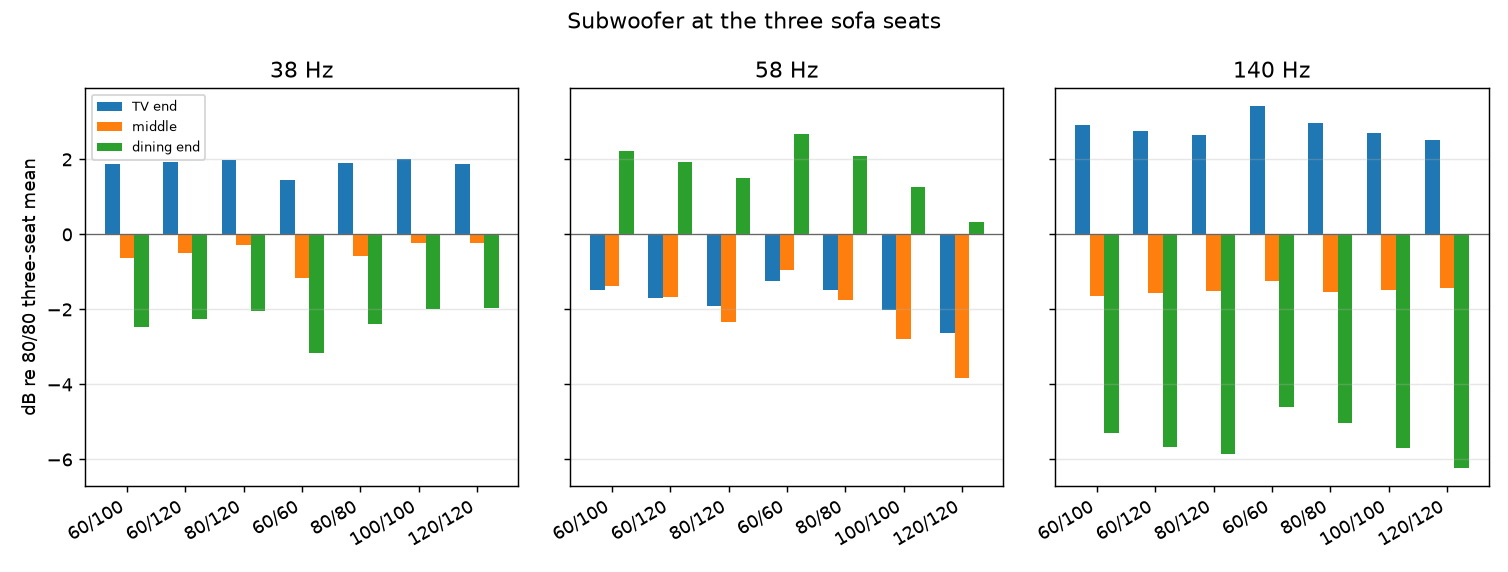
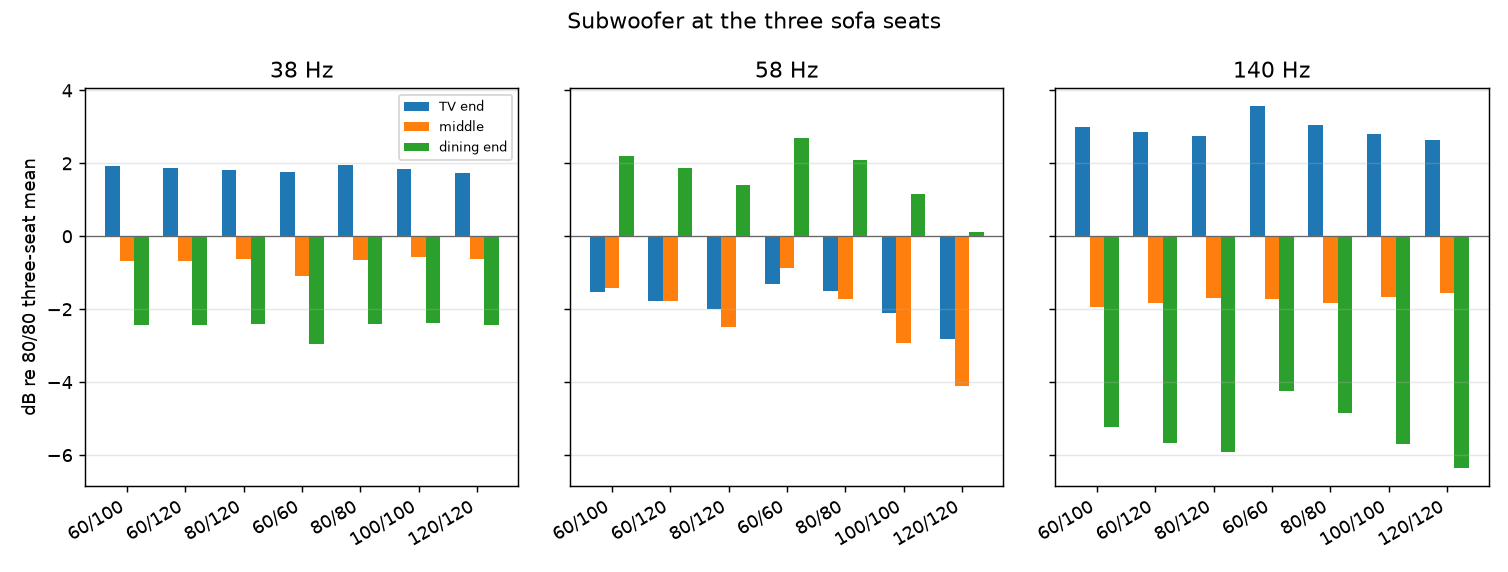
Room-wave study: GKB soffit underside, re-run asymmetric slopes on main build-up

diff --git a/src/blueprints/acoustics/roomwave/asymmetric.py b/src/blueprints/acoustics/roomwave/asymmetric.py
@@ -252,6 +252,14 @@ def main() -> None:
     lines = [
         "# Asymmetric slopes",
         "",
+        "> **Status (Oct 30, 2026):** re-run on the current `main` build-up. 60/100 is the "
+        "chosen pair: NaturHeld 60 mm on the window slope, 100 mm on the cabinet slope, "
+        "2× GKF on the cabinet (road) slope. The second GKF layer is behind the rigid-backed "
+        "slope stack, so this model does not hear it. The soffit is split by area as in the "
+        "main RT60 model: the side face is StoSilent on NaturHeld 140 40 mm over the soffit "
+        "wool, and the underside is plain GKB 12.5 over the same wool and duct air. The other "
+        "pairs are kept for comparison.",
+        "",
         "Left is the window slope, from the eave up to the false ridge. "
         "Right is the cabinet slope, from the ridge down to the soffit. "
         "The subwoofer sits against that cabinet wall, at the TV gable. "
@@ -264,19 +272,20 @@ def main() -> None:
         "Nothing is added behind the thinner board.",
         "",
         "Mineral wool behind the slope gypsum is not in the model. "
-        "On the window slope that wool is 160 + 140 mm; on the cabinet slope it is 160 mm "
-        "plus whatever is left. It sits behind the GKF, so the room does not hear it, "
+        "On the window slope that wool is 160 + 80 mm Unifit 033; on the cabinet slope it is "
+        "160 + 320 mm NatuRoll 039. It sits behind the GKF, so the room does not hear it, "
         "and the ceiling stays symmetric. `plenum_wool` is a CAD volume for the material "
         "list only. No impedance function reads it. The older note about an 80 mm gap "
         "under the rafters is the same invisible layer, also excluded.",
         "",
         "Wool that is counted, on purpose, is not behind rigid gypsum. "
-        "The soffit wool is behind the 40 mm NaturHeld face. "
+        "The soffit wool is behind the 40 mm NaturHeld side face and the GKB underside "
+        "(admittance mixed by area on the wave mesh, α mixed by area in Eyring). "
         "The trap wool is behind the GKB membrane, which is the bass-trap leaf, not a rigid wall. "
-        "Both stay at the drawing thicknesses from the previous run.",
+        "Both stay at the drawing thicknesses.",
         "",
         f"Window slope {furn.area_of('slope_left'):.1f} m², cabinet slope {furn.area_of('slope_right'):.1f} m², "
-        "between the traps. Sofa, soffit wool and both traps stay as in the last run.",
+        "between the traps. Domestic sofa, soffit wool and both traps as in the model.",
         "",
         "## Furnished T60",
         "",
@@ -350,12 +359,11 @@ def main() -> None:
         mid = float(np.mean([curve[500.0], curve[1000.0]]))
         if pair.name == "80/80":
             text = (
-                f"80/80 is the drawing. Furnished bass {bass:.2f} s, mids {mid:.2f} s. "
-                "Same dry mids as the last run, bass still about three times longer."
+                f"80/80 is the reference for the seat levels. Furnished bass {bass:.2f} s, mids {mid:.2f} s."
             )
         elif pair.name == "100/100":
             text = (
-                f"100/100 is the previous recommendation. Furnished bass {bass:.2f} s "
+                f"100/100 is the earlier recommendation. Furnished bass {bass:.2f} s "
                 f"({bass - base_bass:+.2f} s against 80/80), mids {mid:.2f} s. "
                 "The mids do not move."
             )

diff --git a/src/blueprints/acoustics/roomwave/boundaries.py b/src/blueprints/acoustics/roomwave/boundaries.py
@@ -22,6 +22,7 @@ from blueprints.acoustics.obyvak import (
     Resistivity,
     room_geometry,
     soffit_stack,
+    soffit_under_stack,
     slope_stack,
     trap_stack,
 )
@@ -231,7 +232,7 @@ def _stack_z(kind: str, freq: float, thickness_mm: float, fill: Fill) -> complex
         geom = room_geometry()
         cavity = geom.soffit_wool_depth + geom.soffit_air_depth
         wool = min(max(fill.soffit_wool_m, 0.0), cavity)
-        stack = soffit_stack(
+        side = soffit_stack(
             geom.soffit_board,
             plaster,
             wool,
@@ -239,6 +240,12 @@ def _stack_z(kind: str, freq: float, thickness_mm: float, fill: Fill) -> complex
             res,
             wool_sigma=fill.soffit_sigma,
         )
+        under = soffit_under_stack(wool, cavity - wool, res, wool_sigma=fill.soffit_sigma)
+        # One "soffit" label on the mesh: mix the normalised admittance by area
+        # (side NH face vs GKB underside), the same split as the main RT60 model.
+        k = geom.soffit_under_fraction
+        beta = (1.0 - k) * Z0 / surface_impedance(side, freq) + k * Z0 / surface_impedance(under, freq)
+        return Z0 / beta
     elif kind == "rug":
         stack = (("porous", RUG_DEPTH, RUG_SIGMA),)
     else:

diff --git a/src/blueprints/acoustics/roomwave/study.py b/src/blueprints/acoustics/roomwave/study.py
@@ -22,6 +22,7 @@ from blueprints.acoustics.obyvak import (
     eyring_t,
     room_geometry,
     soffit_stack,
+    soffit_under_stack,
     slope_stack,
 )
 from blueprints.acoustics.roomwave.boundaries import (
@@ -211,10 +212,10 @@ def _legacy_t60(thickness_mm: int, soffit: str, freq: float, trap_alpha: dict[st
     plaster = 0.004
     slope = field_absorption(slope_stack(thickness_mm / 1000.0, plaster, res), freq)
     if soffit == "as_built":
-        soffit_a = field_absorption(
-            soffit_stack(geom.soffit_board, plaster, geom.soffit_wool_depth, geom.soffit_air_depth, res),
-            freq,
-        )
+        k = geom.soffit_under_fraction
+        side = soffit_stack(geom.soffit_board, plaster, geom.soffit_wool_depth, geom.soffit_air_depth, res)
+        under = soffit_under_stack(geom.soffit_wool_depth, geom.soffit_air_depth, res)
+        soffit_a = (1.0 - k) * field_absorption(side, freq) + k * field_absorption(under, freq)
         soffit_area = geom.soffit
     else:
         soffit_a = 0.0

diff --git a/src/blueprints/acoustics/roomwave/tune.py b/src/blueprints/acoustics/roomwave/tune.py
@@ -24,6 +24,7 @@ from blueprints.acoustics.obyvak import (
     eyring_t,
     room_geometry,
     soffit_stack,
+    soffit_under_stack,
     slope_stack,
 )
 from blueprints.acoustics.panel import weighted_band_alpha
@@ -135,7 +136,10 @@ def _field_alpha(kind: str, freq: float, slope_mm: int, wool_m: float, air_m: fl
         stack = slope_stack(slope_mm / 1000.0, plaster, res)
     elif kind == "soffit":
         geom = room_geometry()
-        stack = soffit_stack(geom.soffit_board, plaster, wool_m, air_m, res, wool_sigma=sigma)
+        side = soffit_stack(geom.soffit_board, plaster, wool_m, air_m, res, wool_sigma=sigma)
+        under = soffit_under_stack(wool_m, air_m, res, wool_sigma=sigma)
+        k = geom.soffit_under_fraction
+        return (1.0 - k) * field_absorption(side, freq) + k * field_absorption(under, freq)
     elif kind == "rug":
         stack = (("porous", 0.012, 20_000.0),)
     elif kind == "trap":

diff --git a/src/blueprints/acoustics/obyvak.py b/src/blueprints/acoustics/obyvak.py
@@ -283,12 +283,16 @@ def soffit_stack(
 
 
 def soffit_under_stack(
-    wool_m: float, air_m: float, res: Resistivity, gkb_m: float = 0.0125
+    wool_m: float,
+    air_m: float,
+    res: Resistivity,
+    gkb_m: float = 0.0125,
+    wool_sigma: float | None = None,
 ) -> tuple[Layer, ...]:
     """Plain GKB underside, then the soffit wool, then the duct air, then the lid."""
     layers: list[Layer] = [("mass", GKB_DENSITY * gkb_m, 0.0)]
     if wool_m > 1e-6:
-        layers.append(("porous", wool_m, res.mineral_wool))
+        layers.append(("porous", wool_m, wool_sigma if wool_sigma is not None else res.mineral_wool))
     if air_m > 1e-6:
         layers.append(("air", air_m, 0.0))
     return tuple(layers)

diff --git a/docs/acoustics/obyvak-asymmetric.md b/docs/acoustics/obyvak-asymmetric.md
@@ -1,78 +1,78 @@
 # Asymmetric slopes
 
-> **Status (Oct 30, 2026):** archived study from draft PR #69. The 60/100 column is the chosen build-up and is now on `main` (#68, #70): NaturHeld 60 mm on the window slope, 100 mm on the cabinet slope, 2× GKF on the cabinet (road) slope. Since then the soffit underside is plain GKB 12.5 and only the side face is NaturHeld 40 mm. The wave tables below were not re-run for that soffit change or the second GKF layer, which sits behind the rigid-backed slope stack and is not heard in this model. The behind-gypsum wool is now 160 + 80 mm Unifit 033 (left) and 160 + 320 mm NatuRoll 039 (right). The room does not hear it here either.
+> **Status (Oct 30, 2026):** re-run on the current `main` build-up. 60/100 is the chosen pair: NaturHeld 60 mm on the window slope, 100 mm on the cabinet slope, 2× GKF on the cabinet (road) slope. The second GKF layer is behind the rigid-backed slope stack, so this model does not hear it. The soffit is split by area as in the main RT60 model: the side face is StoSilent on NaturHeld 140 40 mm over the soffit wool, and the underside is plain GKB 12.5 over the same wool and duct air. The other pairs are kept for comparison.
 
 Left is the window slope, from the eave up to the false ridge. Right is the cabinet slope, from the ridge down to the soffit. The subwoofer sits against that cabinet wall, at the TV gable. In the cross-section the window slope is on the left and the cabinet slope on the right.
 
 Every slope face is StoSilent on NaturHeld, rigid-backed. `pack()` is `slope_stack`: no mineral wool in the room-facing layers. 60/60, 80/80, 100/100 and 120/120 use that same stack on both sides. The asymmetric runs differ only in the NaturHeld thickness. Nothing is added behind the thinner board.
 
-Mineral wool behind the slope gypsum is not in the model. At the time of this run that wool was 160 + 140 mm (window) and 160 mm plus the rest (cabinet); see the status note for the confirmed build-up. It sits behind the GKF, so the room does not hear it, and the ceiling stays symmetric. `plenum_wool` is a CAD volume for the material list only. No impedance function reads it. The older note about an 80 mm gap under the rafters is the same invisible layer, also excluded.
+Mineral wool behind the slope gypsum is not in the model. On the window slope that wool is 160 + 80 mm Unifit 033; on the cabinet slope it is 160 + 320 mm NatuRoll 039. It sits behind the GKF, so the room does not hear it, and the ceiling stays symmetric. `plenum_wool` is a CAD volume for the material list only. No impedance function reads it. The older note about an 80 mm gap under the rafters is the same invisible layer, also excluded.
 
-Wool that is counted, on purpose, is not behind rigid gypsum. In this run the soffit wool was behind a 40 mm NaturHeld face on the side and underside (the underside is now GKB). The trap wool is behind the GKB membrane, which is the bass-trap leaf, not a rigid wall. Both stay at the drawing thicknesses from the previous run.
+Wool that is counted, on purpose, is not behind rigid gypsum. The soffit wool is behind the 40 mm NaturHeld side face and the GKB underside (admittance mixed by area on the wave mesh, α mixed by area in Eyring). The trap wool is behind the GKB membrane, which is the bass-trap leaf, not a rigid wall. Both stay at the drawing thicknesses.
 
-Window slope 33.5 m², cabinet slope 33.5 m², between the traps. Sofa, soffit wool and both traps stay as in the last run.
+Window slope 33.5 m², cabinet slope 33.5 m², between the traps. Domestic sofa, soffit wool and both traps as in the model.
 
 ## Furnished T60
 
 | Hz | 60/100 | 60/120 | 80/120 | 60/60 | 80/80 | 100/100 | 120/120 |
 | --- | ---: | ---: | ---: | ---: | ---: | ---: | ---: |
-| 50 | 1.24 | 1.15 | 1.08 | 1.44 | 1.25 | 1.08 | 0.95 |
-| 63 | 0.99 | 0.92 | 0.86 | 1.17 | 1.00 | 0.86 | 0.75 |
-| 80 | 0.86 | 0.80 | 0.74 | 1.03 | 0.86 | 0.73 | 0.65 |
-| 100 | 0.77 | 0.72 | 0.66 | 0.94 | 0.77 | 0.65 | 0.58 |
-| 125 | 0.65 | 0.61 | 0.56 | 0.78 | 0.64 | 0.55 | 0.50 |
-| 160 | 0.55 | 0.52 | 0.48 | 0.64 | 0.53 | 0.47 | 0.44 |
-| 200 | 0.47 | 0.45 | 0.42 | 0.54 | 0.45 | 0.41 | 0.39 |
-| 250 | 0.41 | 0.40 | 0.38 | 0.46 | 0.40 | 0.37 | 0.36 |
-| 315 | 0.37 | 0.36 | 0.34 | 0.39 | 0.35 | 0.34 | 0.34 |
-| 400 | 0.33 | 0.34 | 0.32 | 0.35 | 0.33 | 0.32 | 0.32 |
-| 500 | 0.31 | 0.32 | 0.31 | 0.32 | 0.31 | 0.31 | 0.31 |
-| 630 | 0.30 | 0.30 | 0.30 | 0.30 | 0.29 | 0.30 | 0.30 |
-| 800 | 0.29 | 0.29 | 0.29 | 0.29 | 0.29 | 0.29 | 0.29 |
-| 1000 | 0.28 | 0.28 | 0.28 | 0.28 | 0.28 | 0.29 | 0.29 |
-| 1250 | 0.28 | 0.28 | 0.28 | 0.28 | 0.28 | 0.28 | 0.28 |
-| 1600 | 0.27 | 0.27 | 0.28 | 0.27 | 0.28 | 0.28 | 0.27 |
-| 2000 | 0.27 | 0.27 | 0.27 | 0.27 | 0.27 | 0.27 | 0.27 |
-| 2500 | 0.27 | 0.27 | 0.27 | 0.27 | 0.27 | 0.27 | 0.27 |
-| 3150 | 0.26 | 0.26 | 0.26 | 0.26 | 0.26 | 0.26 | 0.26 |
-| 4000 | 0.26 | 0.26 | 0.26 | 0.26 | 0.26 | 0.26 | 0.26 |
+| 50 | 1.25 | 1.15 | 1.09 | 1.45 | 1.26 | 1.09 | 0.95 |
+| 63 | 1.03 | 0.96 | 0.89 | 1.23 | 1.04 | 0.89 | 0.78 |
+| 80 | 0.92 | 0.85 | 0.78 | 1.11 | 0.92 | 0.78 | 0.68 |
+| 100 | 0.83 | 0.77 | 0.71 | 1.03 | 0.83 | 0.70 | 0.62 |
+| 125 | 0.69 | 0.65 | 0.60 | 0.84 | 0.68 | 0.59 | 0.53 |
+| 160 | 0.59 | 0.56 | 0.51 | 0.70 | 0.57 | 0.50 | 0.47 |
+| 200 | 0.50 | 0.48 | 0.45 | 0.58 | 0.48 | 0.44 | 0.42 |
+| 250 | 0.44 | 0.43 | 0.40 | 0.49 | 0.42 | 0.39 | 0.38 |
+| 315 | 0.39 | 0.39 | 0.37 | 0.42 | 0.38 | 0.36 | 0.36 |
+| 400 | 0.36 | 0.36 | 0.34 | 0.37 | 0.35 | 0.34 | 0.34 |
+| 500 | 0.33 | 0.34 | 0.33 | 0.34 | 0.33 | 0.33 | 0.33 |
+| 630 | 0.32 | 0.32 | 0.32 | 0.32 | 0.31 | 0.32 | 0.32 |
+| 800 | 0.31 | 0.31 | 0.31 | 0.30 | 0.30 | 0.31 | 0.31 |
+| 1000 | 0.30 | 0.30 | 0.30 | 0.30 | 0.30 | 0.30 | 0.30 |
+| 1250 | 0.30 | 0.30 | 0.30 | 0.29 | 0.30 | 0.30 | 0.30 |
+| 1600 | 0.29 | 0.29 | 0.29 | 0.29 | 0.29 | 0.29 | 0.29 |
+| 2000 | 0.29 | 0.29 | 0.29 | 0.29 | 0.29 | 0.29 | 0.29 |
+| 2500 | 0.29 | 0.29 | 0.28 | 0.29 | 0.28 | 0.29 | 0.29 |
+| 3150 | 0.28 | 0.28 | 0.28 | 0.28 | 0.28 | 0.28 | 0.28 |
+| 4000 | 0.28 | 0.28 | 0.28 | 0.28 | 0.28 | 0.28 | 0.28 |
 
 ## Empty T60
 
 | Hz | 60/100 | 60/120 | 80/120 | 60/60 | 80/80 | 100/100 | 120/120 |
 | --- | ---: | ---: | ---: | ---: | ---: | ---: | ---: |
-| 50 | 1.47 | 1.35 | 1.26 | 1.74 | 1.49 | 1.27 | 1.10 |
-| 63 | 1.18 | 1.08 | 1.01 | 1.41 | 1.18 | 1.00 | 0.87 |
-| 80 | 1.02 | 0.95 | 0.87 | 1.26 | 1.03 | 0.86 | 0.75 |
-| 100 | 0.93 | 0.87 | 0.79 | 1.17 | 0.93 | 0.77 | 0.68 |
-| 125 | 0.79 | 0.74 | 0.67 | 0.97 | 0.77 | 0.66 | 0.59 |
-| 160 | 0.68 | 0.65 | 0.59 | 0.82 | 0.66 | 0.57 | 0.53 |
-| 200 | 0.59 | 0.57 | 0.52 | 0.69 | 0.57 | 0.51 | 0.48 |
-| 250 | 0.52 | 0.51 | 0.47 | 0.59 | 0.50 | 0.46 | 0.45 |
-| 315 | 0.46 | 0.46 | 0.43 | 0.51 | 0.45 | 0.43 | 0.42 |
-| 400 | 0.43 | 0.43 | 0.41 | 0.45 | 0.41 | 0.40 | 0.41 |
-| 500 | 0.40 | 0.40 | 0.39 | 0.41 | 0.39 | 0.39 | 0.39 |
-| 630 | 0.38 | 0.38 | 0.38 | 0.38 | 0.37 | 0.38 | 0.38 |
-| 800 | 0.37 | 0.37 | 0.37 | 0.36 | 0.36 | 0.37 | 0.37 |
-| 1000 | 0.36 | 0.36 | 0.36 | 0.35 | 0.36 | 0.36 | 0.36 |
-| 1250 | 0.35 | 0.35 | 0.35 | 0.34 | 0.35 | 0.35 | 0.35 |
-| 1600 | 0.34 | 0.34 | 0.34 | 0.34 | 0.34 | 0.34 | 0.34 |
-| 2000 | 0.33 | 0.33 | 0.33 | 0.34 | 0.33 | 0.33 | 0.33 |
-| 2500 | 0.32 | 0.32 | 0.32 | 0.33 | 0.32 | 0.32 | 0.32 |
-| 3150 | 0.31 | 0.31 | 0.31 | 0.31 | 0.31 | 0.31 | 0.31 |
-| 4000 | 0.30 | 0.30 | 0.30 | 0.30 | 0.30 | 0.30 | 0.30 |
+| 50 | 1.48 | 1.36 | 1.27 | 1.76 | 1.50 | 1.28 | 1.10 |
+| 63 | 1.23 | 1.13 | 1.05 | 1.49 | 1.24 | 1.05 | 0.91 |
+| 80 | 1.10 | 1.01 | 0.93 | 1.37 | 1.10 | 0.92 | 0.80 |
+| 100 | 1.01 | 0.93 | 0.84 | 1.28 | 1.00 | 0.83 | 0.73 |
+| 125 | 0.85 | 0.80 | 0.72 | 1.07 | 0.84 | 0.71 | 0.63 |
+| 160 | 0.73 | 0.70 | 0.63 | 0.89 | 0.71 | 0.61 | 0.56 |
+| 200 | 0.63 | 0.61 | 0.56 | 0.75 | 0.61 | 0.54 | 0.51 |
+| 250 | 0.56 | 0.55 | 0.51 | 0.63 | 0.54 | 0.49 | 0.48 |
+| 315 | 0.50 | 0.49 | 0.46 | 0.54 | 0.48 | 0.46 | 0.45 |
+| 400 | 0.46 | 0.46 | 0.44 | 0.48 | 0.44 | 0.43 | 0.43 |
+| 500 | 0.43 | 0.43 | 0.42 | 0.44 | 0.42 | 0.42 | 0.42 |
+| 630 | 0.41 | 0.41 | 0.41 | 0.41 | 0.40 | 0.40 | 0.41 |
+| 800 | 0.39 | 0.39 | 0.39 | 0.39 | 0.39 | 0.40 | 0.40 |
+| 1000 | 0.38 | 0.38 | 0.39 | 0.38 | 0.38 | 0.39 | 0.39 |
+| 1250 | 0.37 | 0.37 | 0.38 | 0.37 | 0.38 | 0.38 | 0.38 |
+| 1600 | 0.36 | 0.36 | 0.37 | 0.36 | 0.37 | 0.36 | 0.36 |
+| 2000 | 0.36 | 0.36 | 0.36 | 0.36 | 0.36 | 0.35 | 0.35 |
+| 2500 | 0.35 | 0.35 | 0.34 | 0.35 | 0.34 | 0.35 | 0.35 |
+| 3150 | 0.33 | 0.33 | 0.34 | 0.33 | 0.34 | 0.34 | 0.34 |
+| 4000 | 0.32 | 0.32 | 0.32 | 0.32 | 0.32 | 0.32 | 0.32 |
 
 ## Bass average, 50–80 Hz
 
 | Pair | Window mm | Cabinet mm | Furnished s | Empty s |
 | --- | ---: | ---: | ---: | ---: |
-| 60/100 | 60 | 100 | 1.03 | 1.22 |
-| 60/120 | 60 | 120 | 0.95 | 1.13 |
-| 80/120 | 80 | 120 | 0.89 | 1.05 |
-| 60/60 | 60 | 60 | 1.21 | 1.47 |
-| 80/80 | 80 | 80 | 1.04 | 1.23 |
-| 100/100 | 100 | 100 | 0.89 | 1.04 |
-| 120/120 | 120 | 120 | 0.78 | 0.91 |
+| 60/100 | 60 | 100 | 1.07 | 1.27 |
+| 60/120 | 60 | 120 | 0.99 | 1.17 |
+| 80/120 | 80 | 120 | 0.92 | 1.08 |
+| 60/60 | 60 | 60 | 1.26 | 1.54 |
+| 80/80 | 80 | 80 | 1.07 | 1.28 |
+| 100/100 | 100 | 100 | 0.92 | 1.08 |
+| 120/120 | 120 | 120 | 0.80 | 0.94 |
 
 ## Subwoofer seats
 
@@ -80,30 +80,30 @@ Decibels relative to the three-seat mean of 80/80 at the same frequency. Seats a
 
 | Pair | 38 Hz | 58 Hz | 140 Hz |
 | --- | --- | --- | --- |
-| 60/100 | +1.9, -0.6, -2.5 | -1.5, -1.4, +2.2 | +2.9, -1.7, -5.3 |
-| 60/120 | +1.9, -0.5, -2.3 | -1.7, -1.7, +1.9 | +2.8, -1.6, -5.7 |
-| 80/120 | +2.0, -0.3, -2.0 | -1.9, -2.3, +1.5 | +2.6, -1.5, -5.9 |
-| 60/60 | +1.4, -1.2, -3.2 | -1.2, -0.9, +2.7 | +3.4, -1.2, -4.6 |
-| 80/80 | +1.9, -0.6, -2.4 | -1.5, -1.7, +2.1 | +3.0, -1.5, -5.0 |
-| 100/100 | +2.0, -0.2, -2.0 | -2.0, -2.8, +1.3 | +2.7, -1.5, -5.7 |
-| 120/120 | +1.9, -0.2, -2.0 | -2.6, -3.8, +0.3 | +2.5, -1.4, -6.2 |
-| 100/60, swapped | +1.8, -0.6, -2.4 | -1.7, -2.2, +1.8 | +3.0, -1.2, -4.8 |
+| 60/100 | +1.9, -0.7, -2.4 | -1.5, -1.4, +2.2 | +3.0, -2.0, -5.2 |
+| 60/120 | +1.9, -0.7, -2.4 | -1.8, -1.8, +1.9 | +2.9, -1.8, -5.7 |
+| 80/120 | +1.8, -0.6, -2.4 | -2.0, -2.5, +1.4 | +2.8, -1.7, -5.9 |
+| 60/60 | +1.8, -1.1, -3.0 | -1.3, -0.9, +2.7 | +3.6, -1.7, -4.2 |
+| 80/80 | +1.9, -0.6, -2.4 | -1.5, -1.7, +2.1 | +3.0, -1.8, -4.8 |
+| 100/100 | +1.8, -0.6, -2.4 | -2.1, -2.9, +1.1 | +2.8, -1.7, -5.7 |
+| 120/120 | +1.7, -0.6, -2.4 | -2.8, -4.1, +0.1 | +2.6, -1.6, -6.3 |
+| 100/60, swapped | +1.9, -0.7, -2.5 | -1.7, -2.2, +1.8 | +3.2, -1.4, -4.5 |
 
 ## What each one does
 
-60/100: window slope 60 mm NaturHeld, cabinet slope 100 mm, both rigid-backed, no wool in the pack. Furnished bass 1.03 s, against 80/80 -0.01 s and against 100/100 +0.14 s. Mids 0.30 s.
+60/100: window slope 60 mm NaturHeld, cabinet slope 100 mm, both rigid-backed, no wool in the pack. Furnished bass 1.07 s, against 80/80 -0.01 s and against 100/100 +0.15 s. Mids 0.32 s.
 
-60/120: window slope 60 mm NaturHeld, cabinet slope 120 mm, both rigid-backed, no wool in the pack. Furnished bass 0.95 s, against 80/80 -0.08 s and against 100/100 +0.06 s. Mids 0.30 s.
+60/120: window slope 60 mm NaturHeld, cabinet slope 120 mm, both rigid-backed, no wool in the pack. Furnished bass 0.99 s, against 80/80 -0.09 s and against 100/100 +0.07 s. Mids 0.32 s.
 
-80/120: window slope 80 mm NaturHeld, cabinet slope 120 mm, both rigid-backed, no wool in the pack. Furnished bass 0.89 s, against 80/80 -0.14 s and against 100/100 +0.00 s. Mids 0.30 s.
+80/120: window slope 80 mm NaturHeld, cabinet slope 120 mm, both rigid-backed, no wool in the pack. Furnished bass 0.92 s, against 80/80 -0.15 s and against 100/100 +0.00 s. Mids 0.31 s.
 
-60/60 is NaturHeld only, rigid backing, both slopes 60 mm. Furnished bass 1.21 s (+0.18 s against 80/80), mids 0.30 s.
+60/60 is NaturHeld only, rigid backing, both slopes 60 mm. Furnished bass 1.26 s (+0.19 s against 80/80), mids 0.32 s.
 
-80/80 is the drawing. Furnished bass 1.04 s, mids 0.30 s. Same dry mids as the last run, bass still about three times longer.
+80/80 is the reference for the seat levels. Furnished bass 1.07 s, mids 0.31 s.
 
-100/100 is the previous recommendation. Furnished bass 0.89 s (-0.15 s against 80/80), mids 0.30 s. The mids do not move.
+100/100 is the earlier recommendation. Furnished bass 0.92 s (-0.15 s against 80/80), mids 0.31 s. The mids do not move.
 
-120/120 is NaturHeld only, rigid backing, both slopes 120 mm. Furnished bass 0.78 s (-0.25 s against 80/80), mids 0.30 s.
+120/120 is NaturHeld only, rigid backing, both slopes 120 mm. Furnished bass 0.80 s (-0.27 s against 80/80), mids 0.32 s.
 
 Swapping 60 and 100, so the thicker NaturHeld is on the window and away from the sub, moves the seat levels by at most 0.8 dB at 38, 58 and 140 Hz. One-sided absorption does not matter at these notes. The sub is in the cabinet-wall corner, but the two slopes cover the whole length, and the seats do not notice which side is thicker.
 
